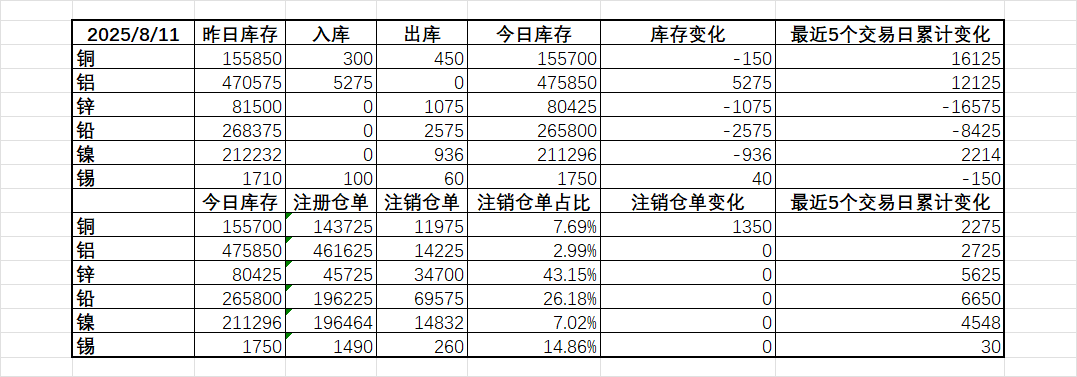
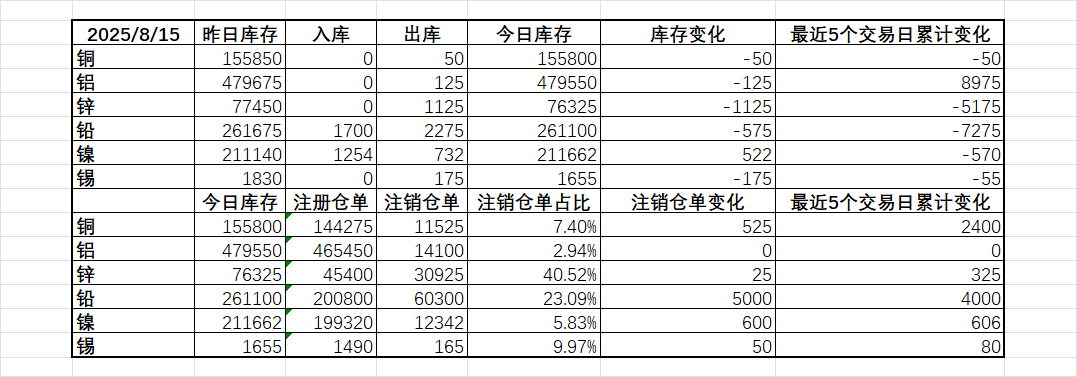
yfwu-main 2025-8-18:0:15:25

diff --git a/锌分析20250811.md b/锌分析20250811.md
@@ -8,11 +8,11 @@
 
 - 本周主要逻辑变化：中期策略维持不变，<font color = red>周度库存+1.6w，，**目前LME结构有所走弱，主要因为近月多头减仓，验证因此本轮对手盘不足结构高度有限，预计会继续回落**；终端需求平稳，友发八月预计销售环比回落5%。</font>目前锌精矿港口库存维持高位，外贸加工费本周继续上行$2。
 - 
-- 周度数据更新：<font color = red>**本周累库+16k，四周均值+10k；供应增加明显驱动累库速度提高。**</font>
+- 周度数据更新：<font color = red>**本周累库+16k，四周均值+10k；国内供应增加明显驱动累库速度提高；LME库存-5k，去库斜率有所放缓，同时没有新增注销仓单**</font>
 - - <font color = red>锌精矿港口库存环比-1.7w至21.3w，绝对库存同期高位区间。</font>
 - - 海关数据显示1-6月进口锌精矿来源国：俄罗斯和刚果均有流入，新项目兑现增量：六月锌精矿进口环比下降明显，但是考虑到7月港口库存增加，预计是进口节奏问题。
 - - **SMM国产TC上调九月（月度）+100至3950；<font color = red>SMM周度tc+0至3900；SMM进口TC+3.5至82.25。**</font>
-- - LME锌库存-16k，新增注销仓单+6k，海外继续拉货。
+- - LME锌库存-5k，新增注销仓单+0.5k，海外继续出库。
 - - <font color = red>**镀锌板卷产能利用率周环比+0.3%，比较平稳**</font>**
 
 - - 消息面：**无。**；万洋7月9k，8月15k-20k，9月20k；云铜已经爬产完。
